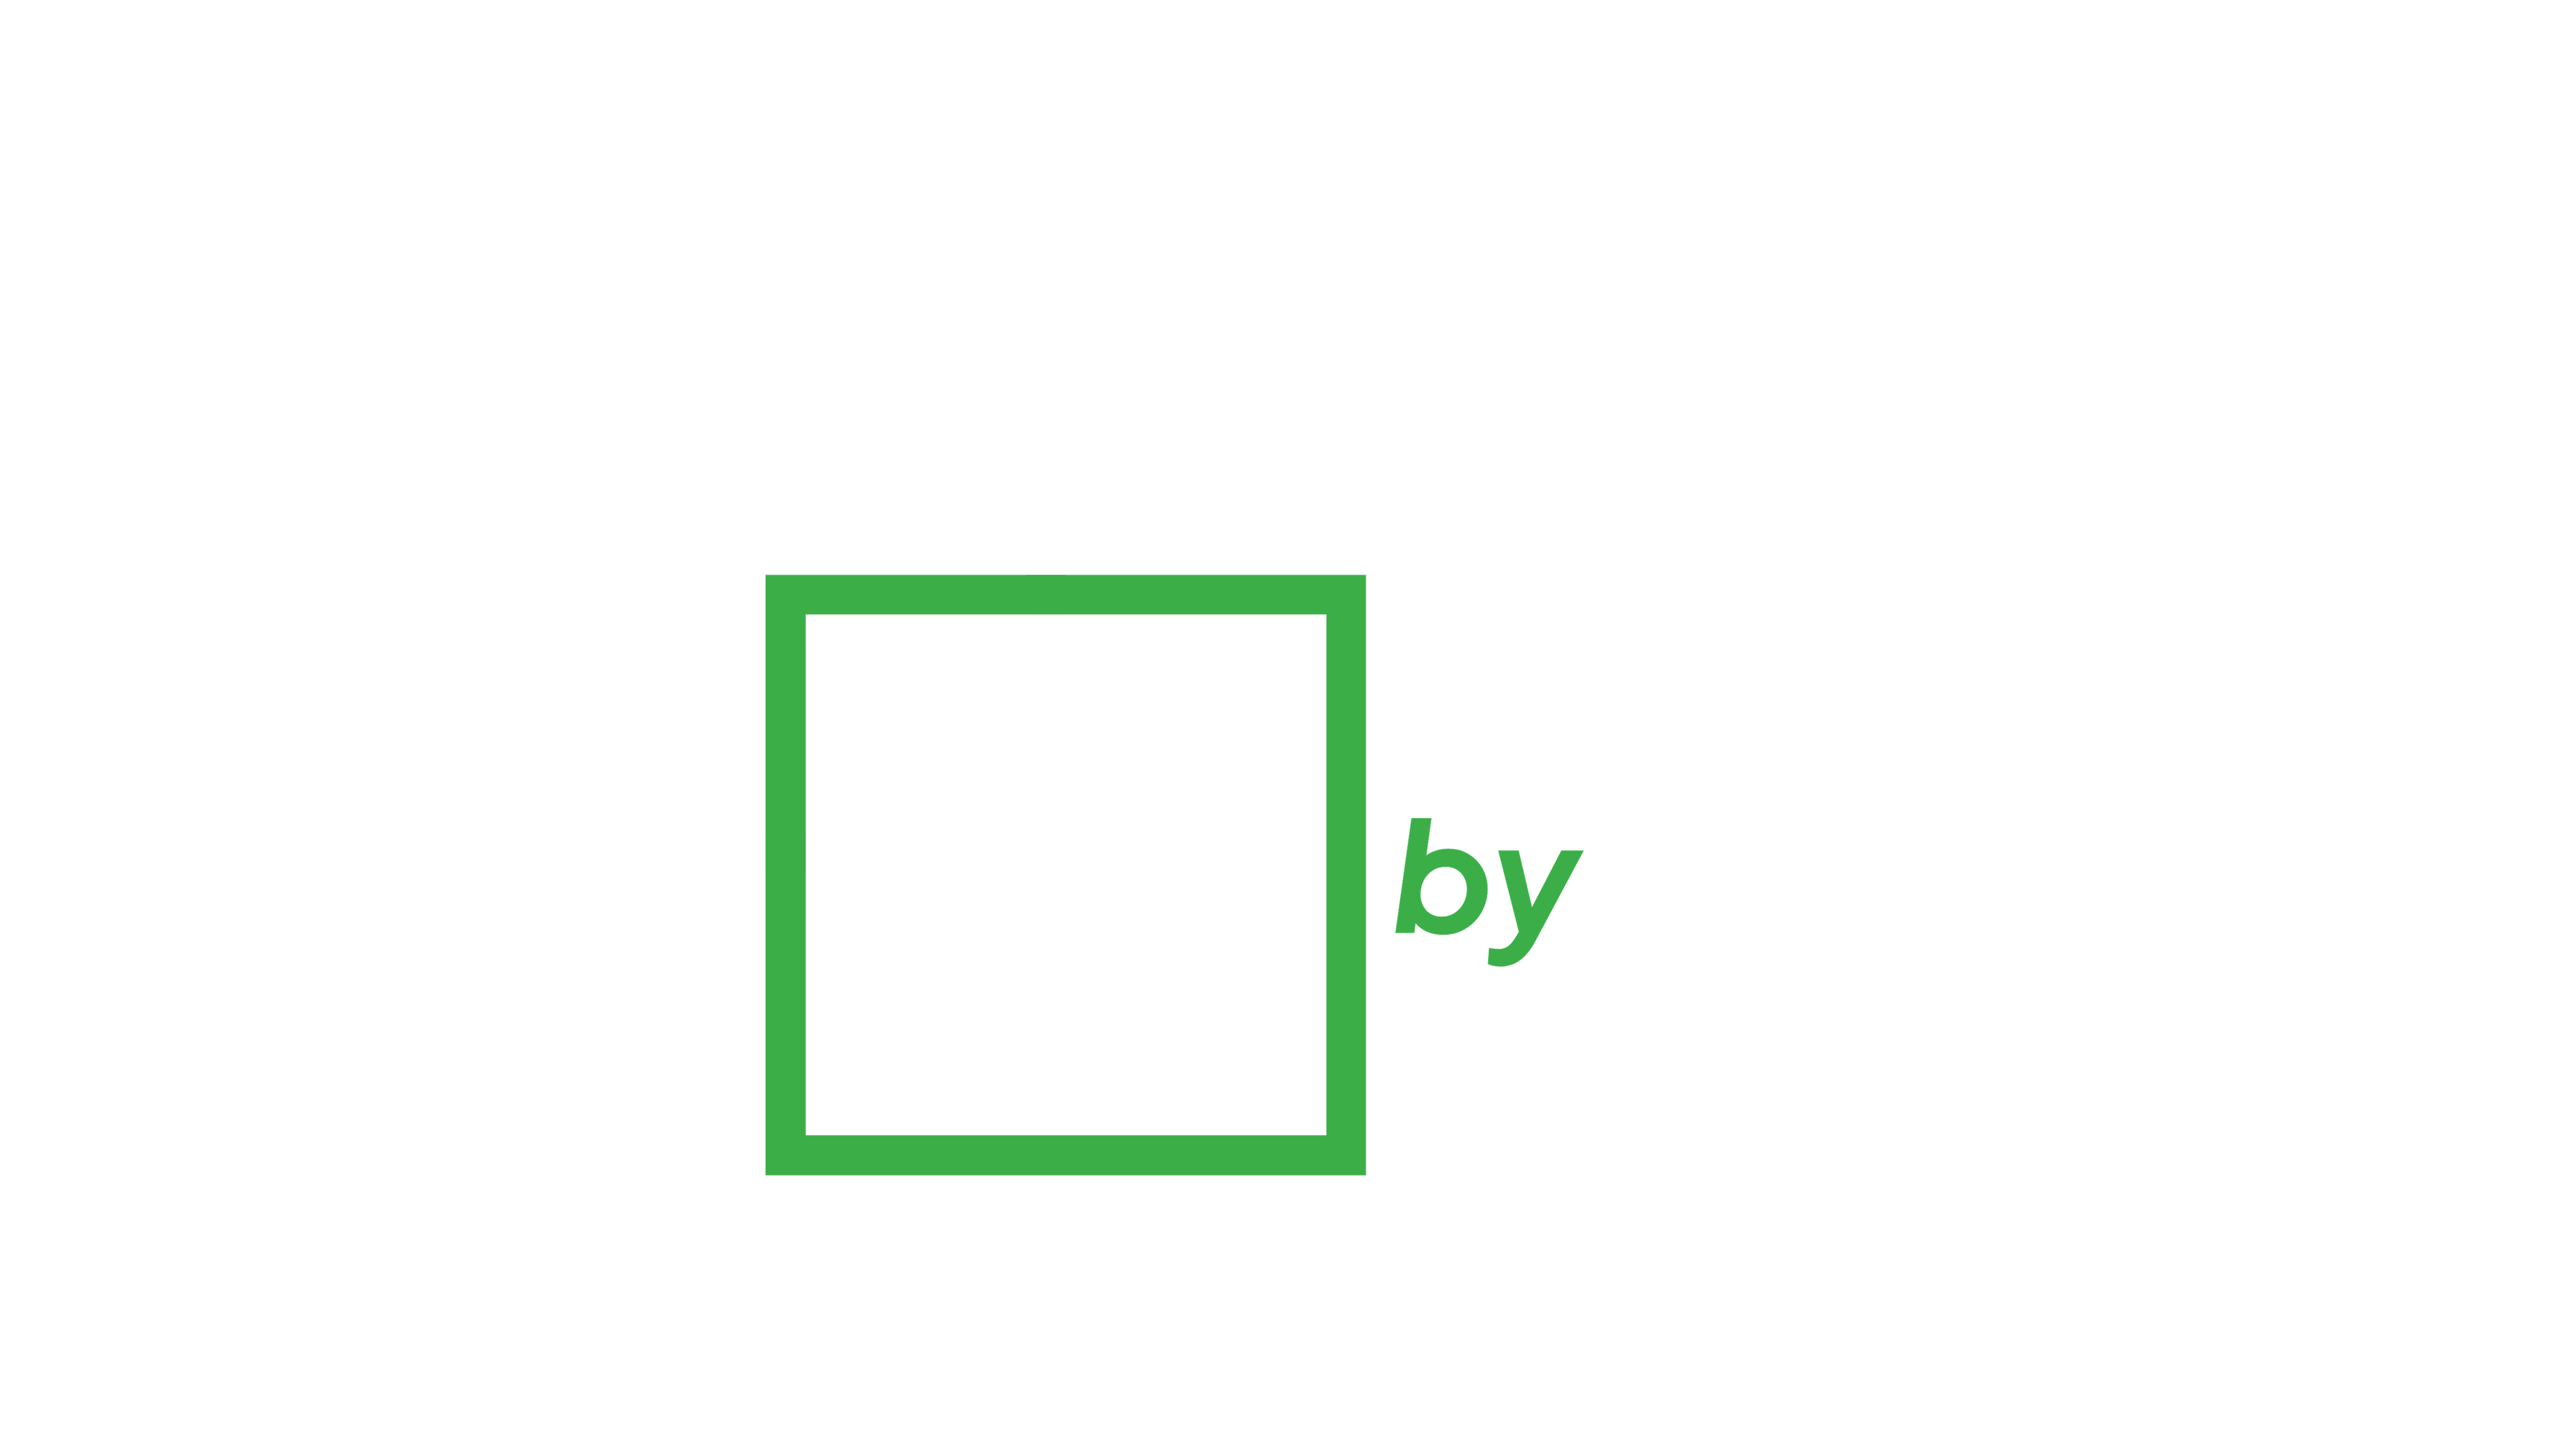
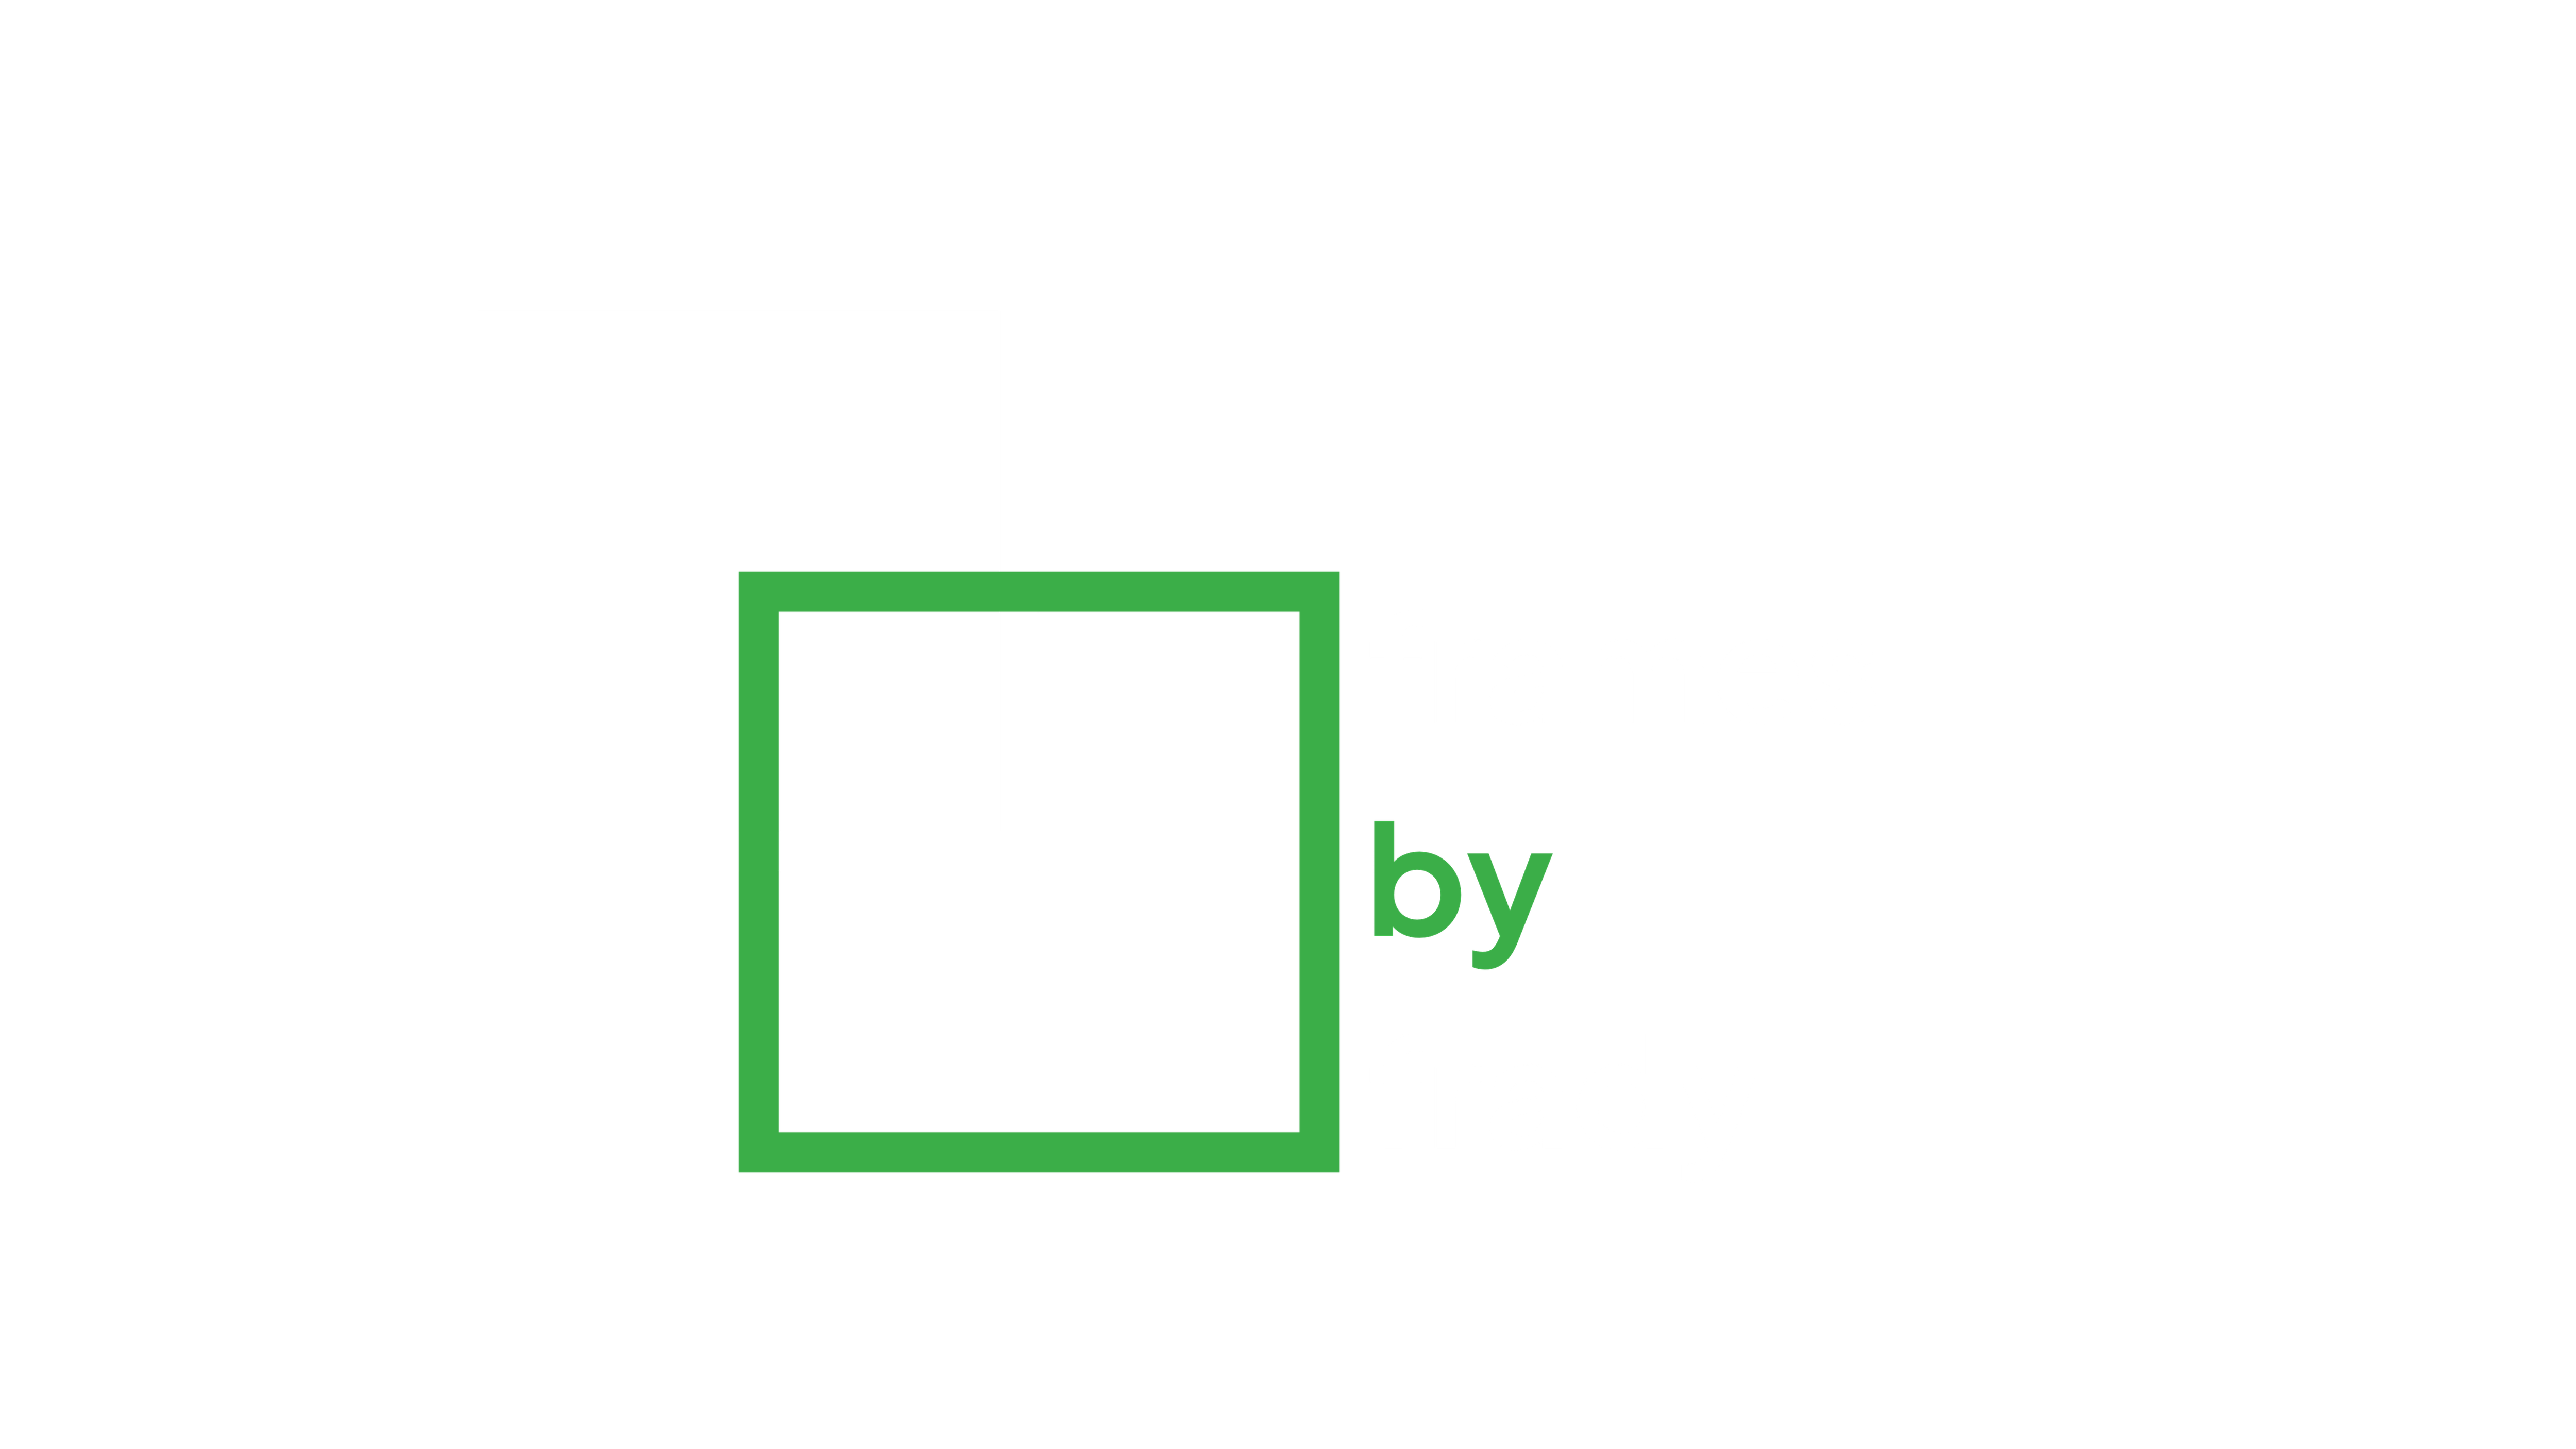
Update brand: new white+green mark and bold italic wordmark
- Replace brand PNG assets with updated logos
- Mark: solid white back frame (was faint) to match new artwork
- Wordmark: bold italic grotesque (Inter) with green "by", matching new typeface
- Load Inter italic + heavier weights
- Brighten hero spinning mark's back frame to match

Claude-Session: https://claude.ai/code/session_01KU6yB1cK9fn8QaH5Binsf7

Changed region(s): [[0.4992, 0.3713, 0.624, 0.8353], [0.2808, 0.3713, 0.312, 0.8044]]

diff --git a/src/components/BrandLogo.tsx b/src/components/BrandLogo.tsx
@@ -1,9 +1,9 @@
 /**
  * Frames by Frady brand assets.
  *
- * The mark is two overlapping square "frames": a faint back frame and a solid
- * green front frame. The wordmark is lowercase "frames by frady" with the
- * connector "by" emphasized in brand green.
+ * The mark is two equal overlapping square "frames": a white back frame and a
+ * green front frame. The wordmark is lowercase, bold italic "frames by frady"
+ * with the connector "by" in brand green.
  *
  * Brand green: #3BAE48
  */
@@ -12,26 +12,26 @@ interface MarkProps {
   className?: string;
   /** Fill color for the front frame's interior (so it sits over the back frame). */
   bg?: string;
-  /** Stroke color of the faint back frame. */
+  /** Stroke color of the back frame. */
   backStroke?: string;
 }
 
 export function FramesMark({
   className = "w-9 h-9",
   bg = "#070B14",
-  backStroke = "rgba(255,255,255,0.28)",
+  backStroke = "#FFFFFF",
 }: MarkProps) {
   return (
     <svg viewBox="0 0 64 64" className={className} fill="none" aria-hidden="true">
-      {/* Back frame — faint, offset up-left */}
+      {/* Back frame — white, offset up-left */}
       <rect
         x="7"
         y="5"
         width="35"
         height="35"
-        rx="2.5"
+        rx="2"
         stroke={backStroke}
-        strokeWidth="3"
+        strokeWidth="4"
       />
       {/* Front frame — green, offset down-right, opaque interior */}
       <rect
@@ -39,7 +39,7 @@ export function FramesMark({
         y="24"
         width="35"
         height="35"
-        rx="2.5"
+        rx="2"
         fill={bg}
         stroke="#3BAE48"
         strokeWidth="4.5"
@@ -60,11 +60,11 @@ export function FramesWordmark({
 }: WordmarkProps) {
   return (
     <span
-      className={`font-heading font-semibold lowercase tracking-tight leading-none ${className}`}
-      style={{ color: textColor, fontFamily: "var(--font-poppins), system-ui, sans-serif" }}
+      className={`font-extrabold italic lowercase tracking-tight leading-none ${className}`}
+      style={{ color: textColor, fontFamily: "var(--font-inter), system-ui, sans-serif" }}
     >
       frames
-      <span className="text-[#3BAE48] mx-[0.28em]">by</span>
+      <span className="text-[#3BAE48] mx-[0.26em]">by</span>
       frady
     </span>
   );
@@ -86,7 +86,7 @@ export function FramesLogo({
   wordmarkClassName = "text-[17px]",
   textColor = "#FFFFFF",
   bg = "#070B14",
-  backStroke = "rgba(255,255,255,0.28)",
+  backStroke = "#FFFFFF",
 }: LogoProps) {
   return (
     <span className={`inline-flex items-center gap-2.5 select-none ${className}`}>

diff --git a/src/app/layout.tsx b/src/app/layout.tsx
@@ -11,7 +11,8 @@ const poppins = Poppins({
 const inter = Inter({
   variable: "--font-inter",
   subsets: ["latin"],
-  weight: ["400", "500", "600"],
+  weight: ["400", "500", "600", "700", "800"],
+  style: ["normal", "italic"],
 });
 
 export const metadata: Metadata = {

diff --git a/src/app/page.tsx b/src/app/page.tsx
@@ -212,7 +212,7 @@ export default function HomePage() {
                   <FramesMark
                     className="w-[30rem] h-[30rem] xl:w-[34rem] xl:h-[34rem]"
                     bg="transparent"
-                    backStroke="rgba(255,255,255,0.35)"
+                    backStroke="rgba(255,255,255,0.85)"
                   />
                 </div>
               </div>